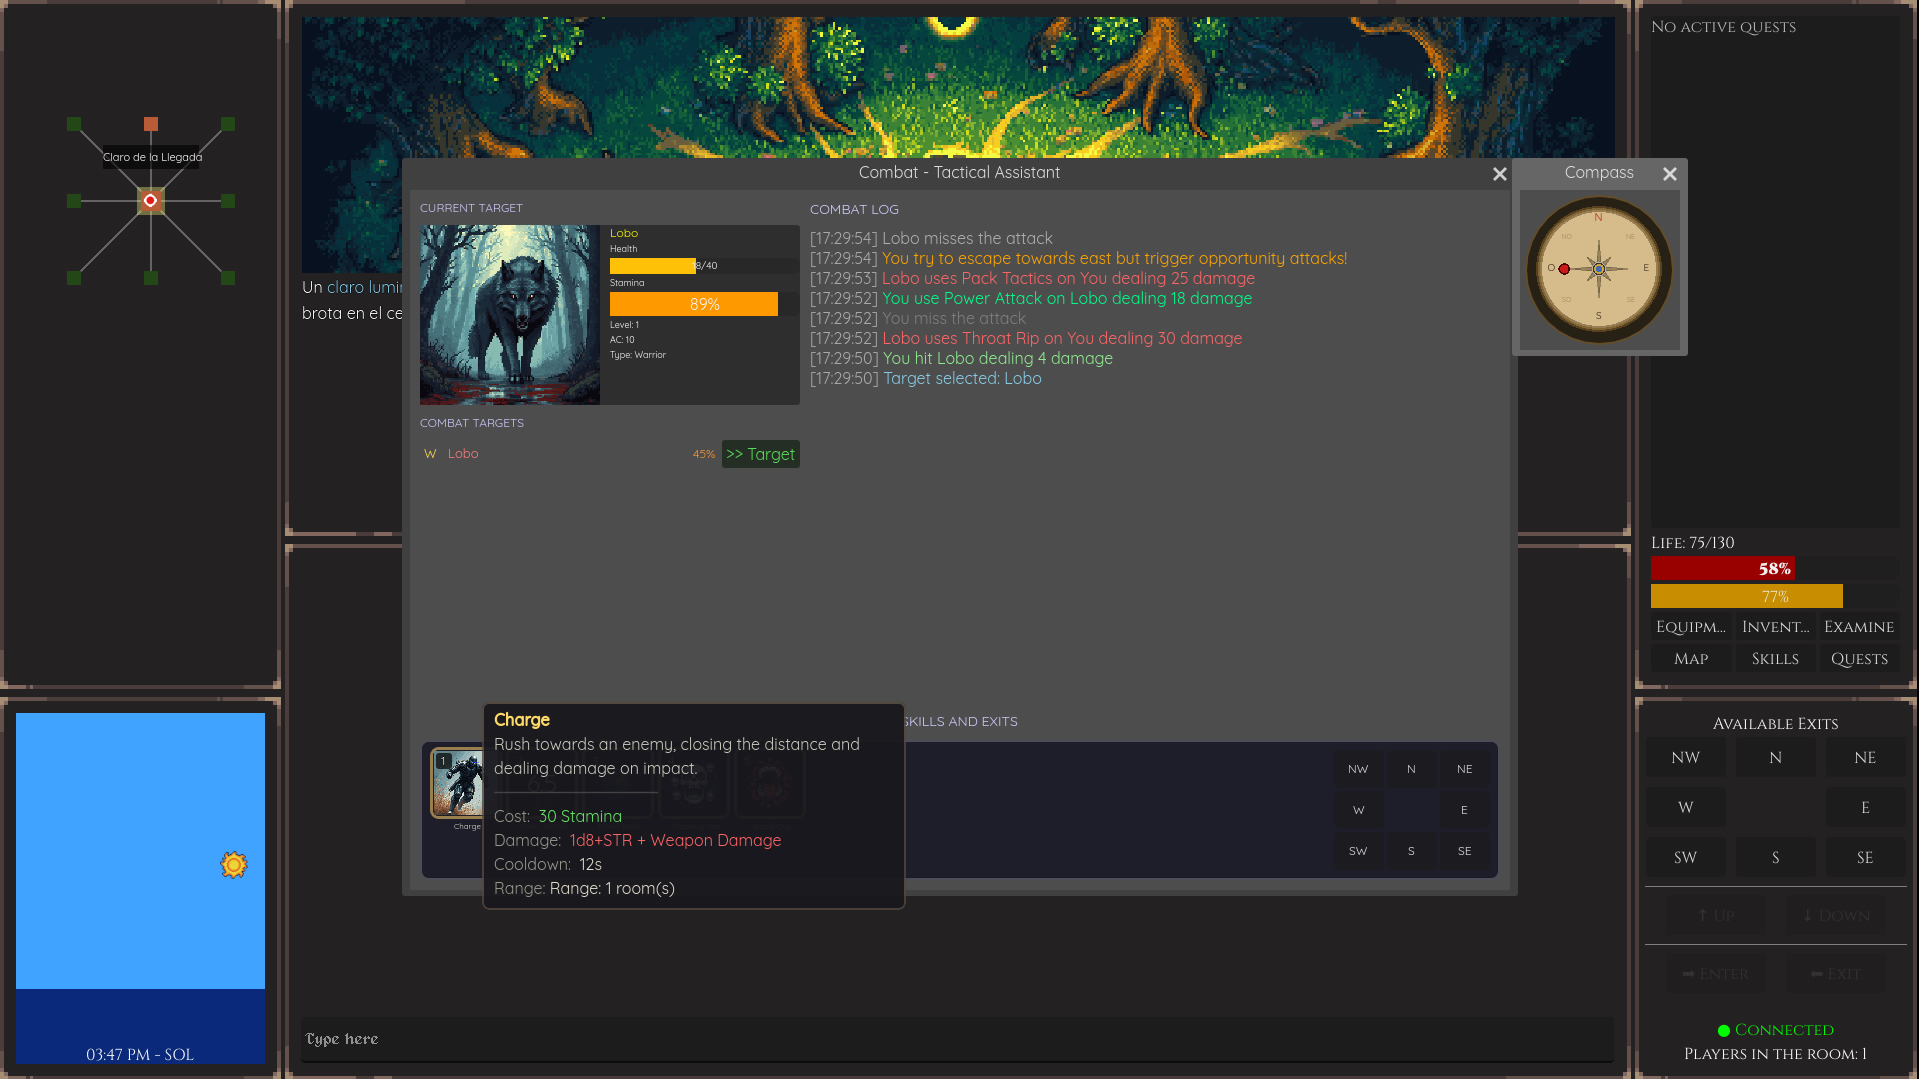
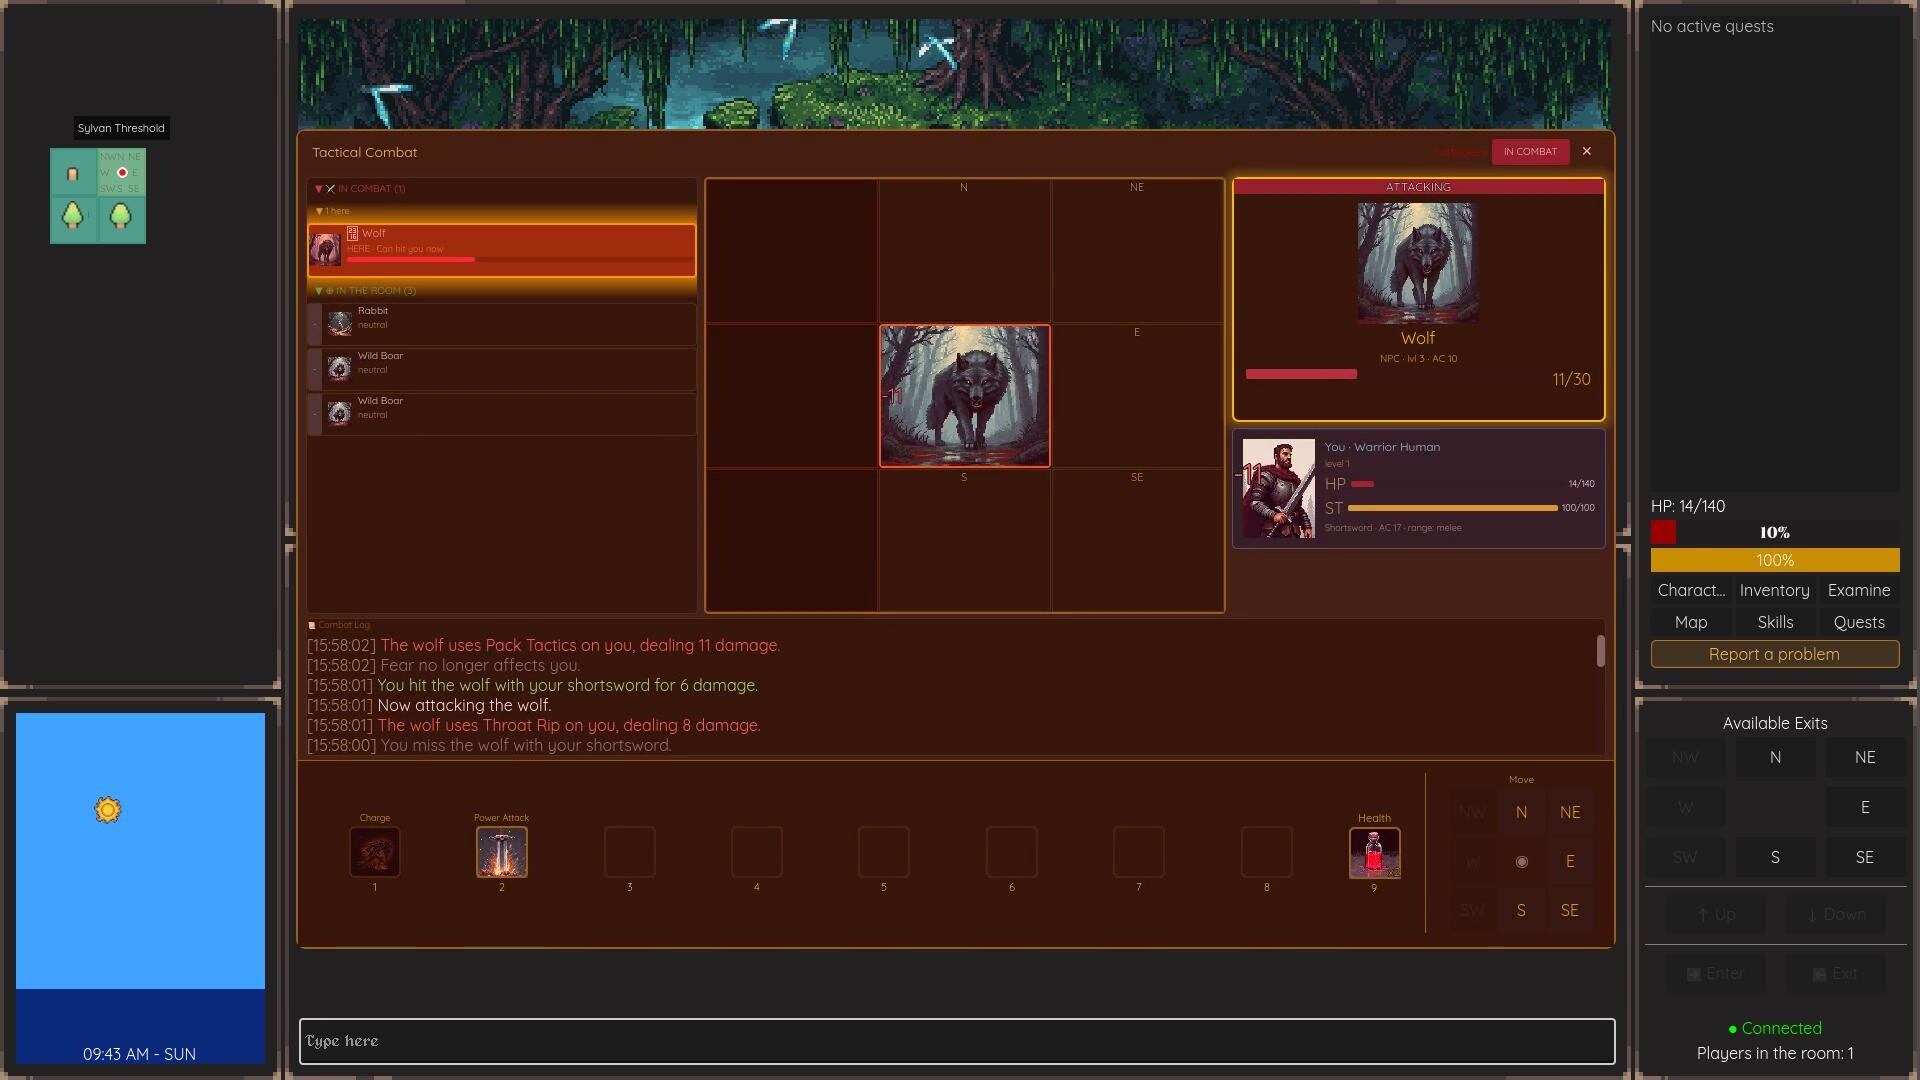
Refresh screenshots and add the playtest date
The gallery showed April builds. New captures come from the current
client: village exploration, tactical combat, an NPC conversation,
character creation, two minigames and a room illustration.

Claude-Session: https://claude.ai/code/session_01HxfnFbJ3nGfKUNgv8EVqTM

diff --git a/index.html b/index.html
@@ -33,6 +33,9 @@
           <dt>Release Date</dt>
           <dd>TBA</dd>
 
+          <dt>Playtest</dt>
+          <dd>October 2, 2026 · 19:00 CEST (17:00 UTC) on Steam</dd>
+
           <dt>Platforms</dt>
           <dd>Windows (Steam), Linux (Steam)</dd>
 
@@ -110,12 +113,13 @@
         <section>
           <h2>Images</h2>
           <div class="gallery">
-            <a href="assets/room.jpg" data-lightbox><img src="assets/room.jpg" alt="Exploring a room in Modern Mud"></a>
-            <a href="assets/combat.jpg" data-lightbox><img src="assets/combat.jpg" alt="Tactical combat system"></a>
-            <a href="assets/talking.jpg" data-lightbox><img src="assets/talking.jpg" alt="NPC conversation"></a>
-            <a href="assets/examine.jpg" data-lightbox><img src="assets/examine.jpg" alt="Examining the world"></a>
-            <a href="assets/questlog.jpg" data-lightbox><img src="assets/questlog.jpg" alt="Quest log"></a>
-            <a href="assets/languagues.jpg" data-lightbox><img src="assets/languagues.jpg" alt="Multiple language support"></a>
+            <a href="assets/room.jpg" data-lightbox><img src="assets/room.jpg" alt="Exploring the village in Modern Mud"></a>
+            <a href="assets/combat.jpg" data-lightbox><img src="assets/combat.jpg" alt="Tactical combat against a wolf"></a>
+            <a href="assets/talking.jpg" data-lightbox><img src="assets/talking.jpg" alt="Conversation with an NPC merchant"></a>
+            <a href="assets/character-creation.jpg" data-lightbox><img src="assets/character-creation.jpg" alt="Character creation screen"></a>
+            <a href="assets/shell-game.jpg" data-lightbox><img src="assets/shell-game.jpg" alt="Shell game minigame with a huckster"></a>
+            <a href="assets/valve-puzzle.jpg" data-lightbox><img src="assets/valve-puzzle.jpg" alt="Sluice valve puzzle minigame"></a>
+            <a href="assets/room-art.jpg" data-lightbox><img src="assets/room-art.jpg" alt="Room artwork: a glowing underground grove"></a>
           </div>
         </section>
 
